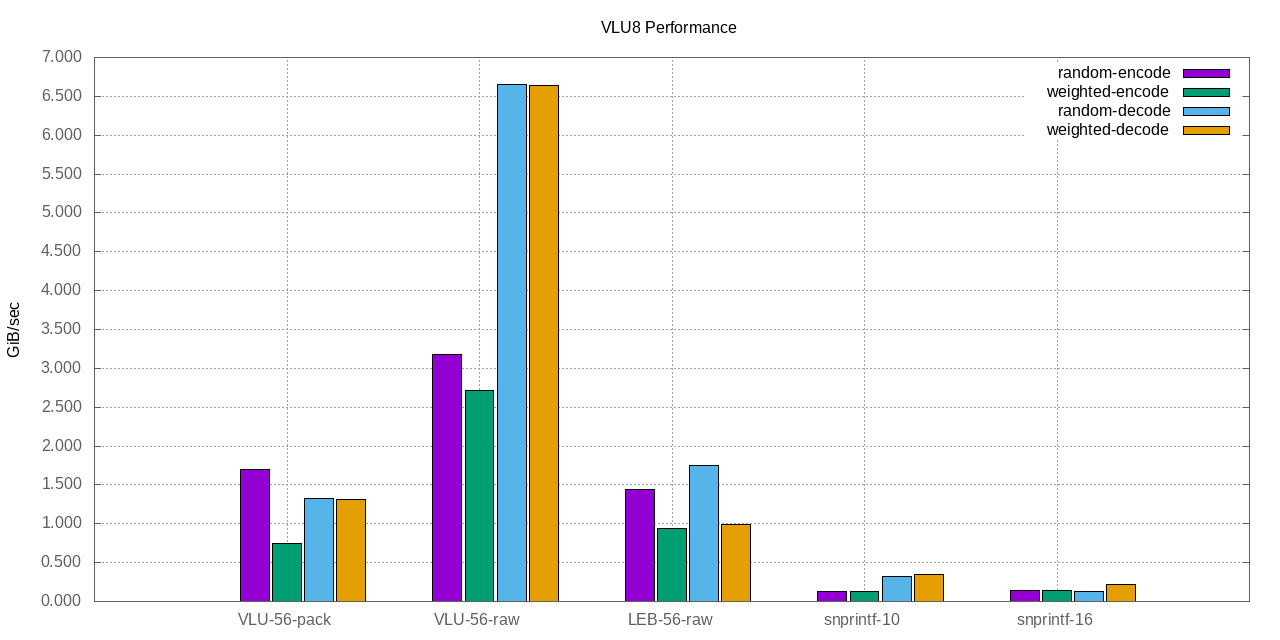
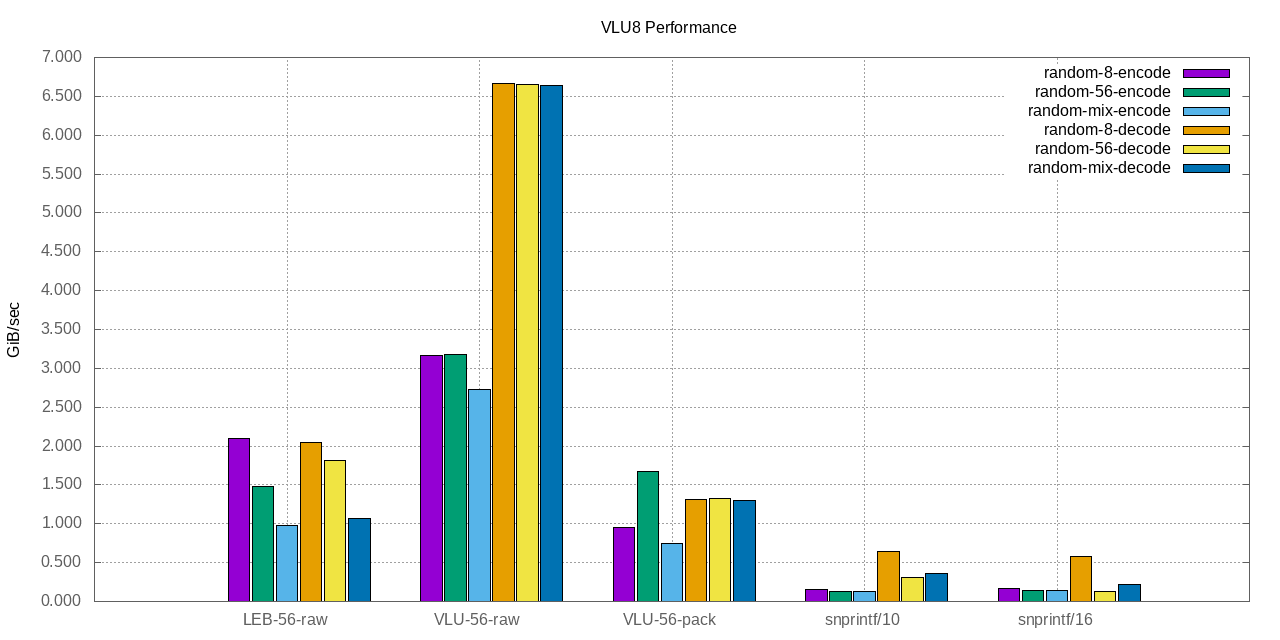
Update benchmark charts and tables with renames and new random-8 data

diff --git a/data/benchmarks.md b/data/benchmarks.md
@@ -1,0 +1,33 @@
+|Benchmark                       |Item count|Iterations|Size KiB  |Time µs   |GiB/sec   |
+|--------------------------------|----------|----------|----------|----------|----------|
+|BARE                            |1048576   |1000      |8000      |620323    |   12.594 |
+|LEB_56-raw encode (random-8)    |1048576   |1000      |8000      |3718560   |    2.101 |
+|LEB_56-raw encode (random-56)   |1048576   |1000      |8000      |5295394   |    1.475 |
+|LEB_56-raw encode (random-mix)  |1048576   |1000      |8000      |7976945   |    0.979 |
+|LEB_56-raw decode (random-8)    |1048576   |1000      |8000      |3810777   |    2.050 |
+|LEB_56-raw decode (random-56)   |1048576   |1000      |8000      |4298733   |    1.817 |
+|LEB_56-raw decode (random-mix)  |1048576   |1000      |8000      |7295214   |    1.071 |
+|VLU_56-raw encode (random-8)    |1048576   |1000      |8000      |2472276   |    3.160 |
+|VLU_56-raw encode (random-56)   |1048576   |1000      |8000      |2462346   |    3.173 |
+|VLU_56-raw encode (random-mix)  |1048576   |1000      |8000      |2865564   |    2.726 |
+|VLU_56-raw decode (random-8)    |1048576   |1000      |8000      |1172606   |    6.663 |
+|VLU_56-raw decode (random-56)   |1048576   |1000      |8000      |1173389   |    6.658 |
+|VLU_56-raw decode (random-mix)  |1048576   |1000      |8000      |1175671   |    6.645 |
+|VLU_56-pack encode (random-8)   |1048576   |1000      |8000      |8259589   |    0.946 |
+|VLU_56-pack encode (random-56)  |1048576   |1000      |8000      |4660730   |    1.676 |
+|VLU_56-pack encode (random-mix) |1048576   |1000      |8000      |10551227  |    0.740 |
+|VLU_56-pack decode (random-8)   |1048576   |1000      |8000      |5963904   |    1.310 |
+|VLU_56-pack decode (random-56)  |1048576   |1000      |8000      |5871004   |    1.331 |
+|VLU_56-pack decode (random-mix) |1048576   |1000      |8000      |5990512   |    1.304 |
+|snprintf/10 encode (random-8)   |1048576   |1000      |8000      |49647433  |    0.157 |
+|snprintf/10 encode (random-56)  |1048576   |1000      |8000      |62734285  |    0.125 |
+|snprintf/10 encode (random-mix) |1048576   |1000      |8000      |61909451  |    0.126 |
+|strtoull/10 decode (random-8)   |1048576   |1000      |8000      |12138848  |    0.644 |
+|strtoull/10 decode (random-56)  |1048576   |1000      |8000      |24816419  |    0.315 |
+|strtoull/10 decode (random-mix) |1048576   |1000      |8000      |21899502  |    0.357 |
+|snprintf/16 encode (random-8)   |1048576   |1000      |8000      |45197043  |    0.173 |
+|snprintf/16 encode (random-56)  |1048576   |1000      |8000      |55886294  |    0.140 |
+|snprintf/16 encode (random-mix) |1048576   |1000      |8000      |54694201  |    0.143 |
+|strtoull/16 decode (random-8)   |1048576   |1000      |8000      |13348789  |    0.585 |
+|strtoull/16 decode (random-56)  |1048576   |1000      |8000      |61364335  |    0.127 |
+|strtoull/16 decode (random-mix) |1048576   |1000      |8000      |36900809  |    0.212 |

diff --git a/README.md b/README.md
@@ -100,13 +100,13 @@ _Figure 2: VLU8 Benchmarks (GiB/sec)_
 
 ### Performance Data
 
-|Benchmark     |random-encode (GiB/sec) |weighted-encode (GiB/sec) |random-decode (GiB/sec) |weighted-decode (GiB/sec) |
-|:-------------|-------------:|---------------:|-------------:|---------------:|
-|VLU&#8209;56&#8209;pack   |1.693         |0.741           |1.325         |1.307           |
-|VLU-56-raw    |3.172         |2.712           |6.647         |6.643           |
-|LEB-56-raw    |1.442         |0.943           |1.755         |0.996           |
-|snprintf-10   |0.126         |0.129           |0.318         |0.351           |
-|snprintf-16   |0.143         |0.146           |0.129         |0.217           |
+|Benchmark           |random-8-encode (GiB/sec) |random-56-encode (GiB/sec) |random-mix-encode (GiB/sec) |random-8-decode (GiB/sec) |random-56-decode (GiB/sec) |random-mix-decode (GiB/sec) |
+|:-------------------|-------------------:|-------------------:|-------------------:|------------------:|--------------------:|-------------------:|
+|LEB&#8209;56&#8209;raw          |2.101               |1.475               |0.979               |2.05                |1.817               |1.071               |
+|VLU&#8209;56&#8209;raw          |3.16                |3.173               |2.726               |6.663               |6.658               |6.645               |
+|VLU&#8209;56&#8209;pack         |0.946               |1.676               |0.74                |1.31                |1.331               |1.304               |
+|snprintf/10         |0.157               |0.125               |0.126               |0.644               |0.315               |0.357               |
+|snprintf/16         |0.173               |0.14                |0.143               |0.585               |0.127               |0.212               |
 
 #### Benchmark Notes
 
